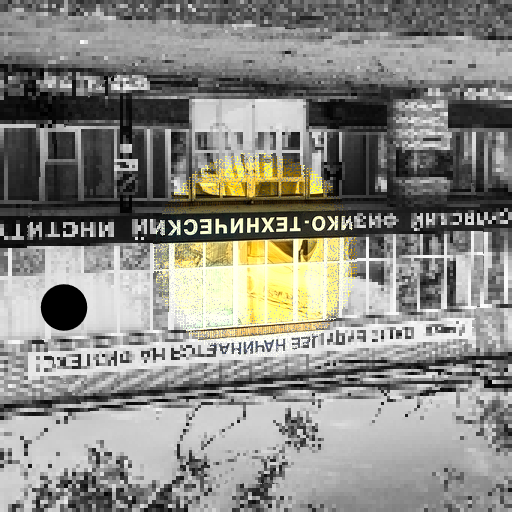
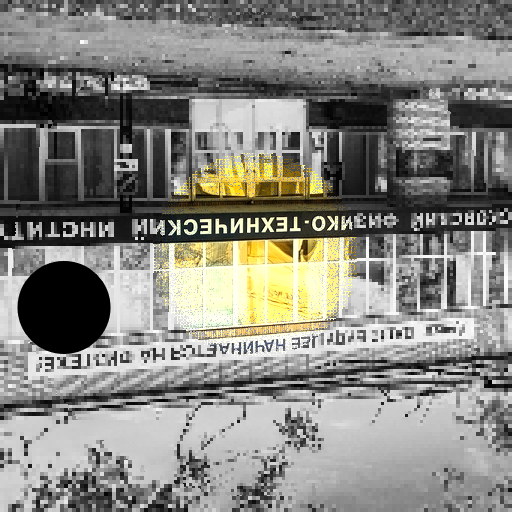
update

diff --git a/image.js b/image.js
@@ -12,14 +12,11 @@ let isAtCenter = (x, y) =>  {
     let x_diff = (x-center.x)*(x-center.x);
     let y_diff = (y-center.y)*(y-center.y);
     let tmp = Math.random() * atCenterConst / (x_diff*x_diff + y_diff*y_diff);
-    if (x%50 == 0 && y%50 == 0) {
-        console.log(x, y, tmp);
-    }
     return x_diff + y_diff <= R*R || tmp >= 150;
 };
 
 let drawBlindSpot = (context) => {
-    let blindSpotRadius = Math.min(height, width) / 22;
+    let blindSpotRadius = Math.min(height, width) / 11;
     let blindSpotCenter = {
         x: 7/8 * width,
         y: center.y - Math.tan(15 * Math.PI / 180) * (3/8)*width
@@ -56,7 +53,7 @@ let drawBinarizedImage = (result, imageData) => {
 };
 
 let inFirstBound = (x, y) => {
-    let R_square_up = height*height/5;
+    let R_square_up = height*height/4.5;
     let R_square_bottom = height*height/25;
     let x_diff = (x-center.x)*(x-center.x);
     let y_diff = (y-center.y)*(y-center.y);
@@ -64,7 +61,7 @@ let inFirstBound = (x, y) => {
 };
 
 let inSecondBound = (x, y) => {
-    let R_square = height*height/5;
+    let R_square = height*height/4.5;
     let x_diff = (x-center.x)*(x-center.x);
     let y_diff = (y-center.y)*(y-center.y);
     return x_diff + y_diff >= R_square;
